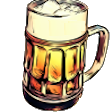
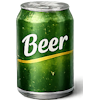
v3

diff --git a/v3/index.html b/v3/index.html
@@ -6,8 +6,8 @@
     
     <link rel="manifest" href="./assets/manifest-BMwuxWac.json">
 
-   <script type="module" crossorigin src="./assets/index-ClSAzs-3.js"></script>
-   <link rel="stylesheet" crossorigin href="./assets/index-JAedVEQH.css">
+   <script type="module" crossorigin src="./assets/index-Bidy8uAx.js"></script>
+   <link rel="stylesheet" crossorigin href="./assets/index-y2FBLS4Z.css">
  </head>
 
 <div id="game" style="width:100%;height: 100%;">